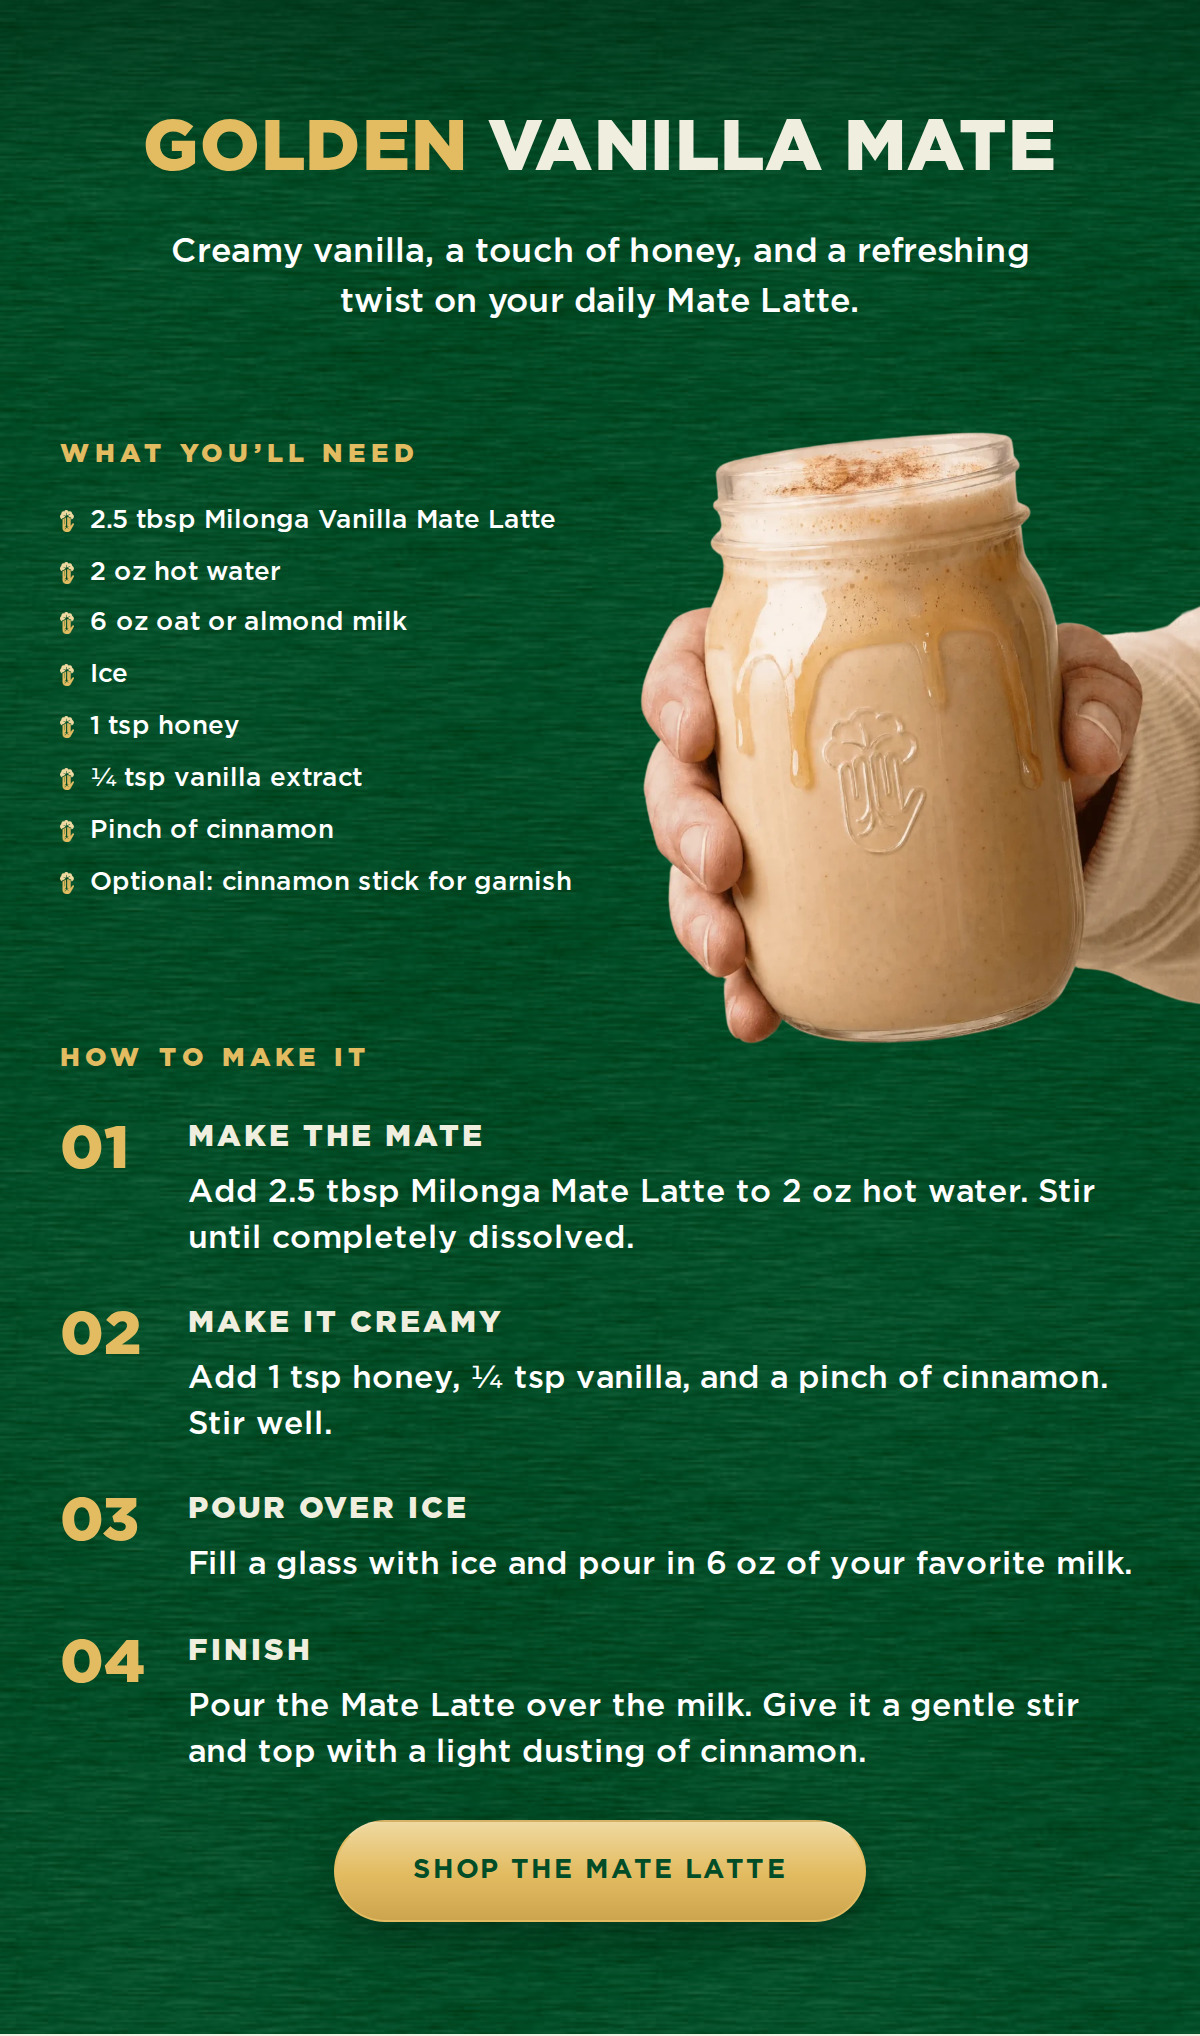
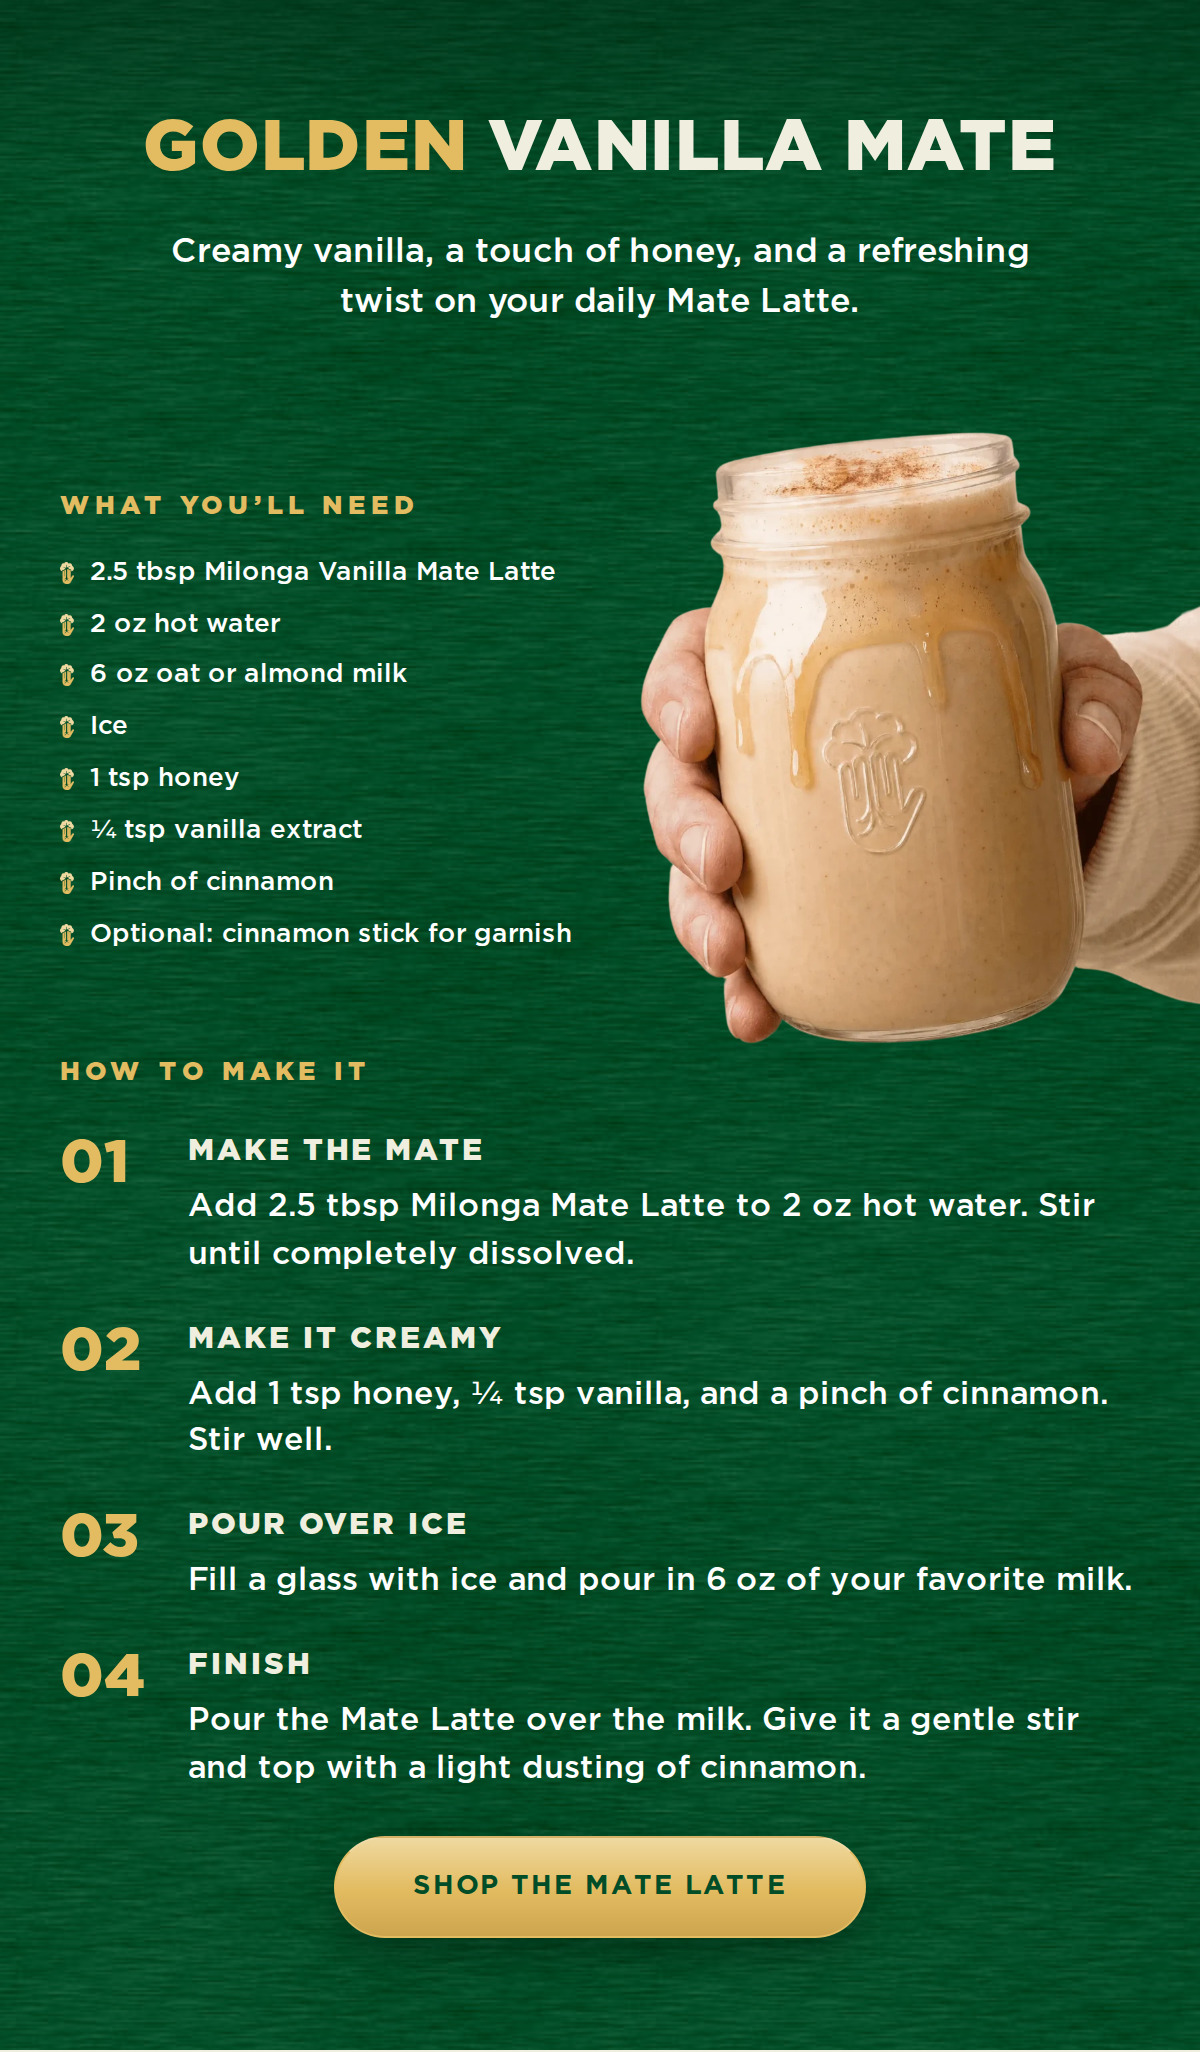
email: the ingredient list centres on the jar
26 units down. Both the list and the picture started at the row's top, and
they are not the same height — about 250 against 324 — so the type sat high
against the glass. Half the difference centres one on the other, which is
what "aligned with the image" means when the two objects differ in length.

Claude-Session: https://claude.ai/code/session_01NhEtXPnfeCJfN73SqBkUZ5

diff --git a/email-ds/emails/how-to-make-it.jsx b/email-ds/emails/how-to-make-it.jsx
@@ -132,7 +132,10 @@ function HowToMakeIt() {
       // taken quietly: it is a spec list of short phrases, not running copy,
       // and it is the only type in either email below the floor.
       h('div', { style: { position: 'relative', marginTop: 56, minHeight: 250 } },
-        h('div', { style: { width: 272 } },
+        // 26 down. The list is about 250 units tall and the jar 324, both
+        // starting at the row's top, which left the type sitting high against
+        // it; half the difference centres one on the other.
+        h('div', { style: { width: 272, paddingTop: 26 } },
           h('div', { style: { fontFamily: 'Gotham, Montserrat, sans-serif', fontWeight: 900,
             fontSize: 13, letterSpacing: '0.2em', textTransform: 'uppercase',
             color: '#E3BC62', marginBottom: 16 } }, 'What you’ll need'),
